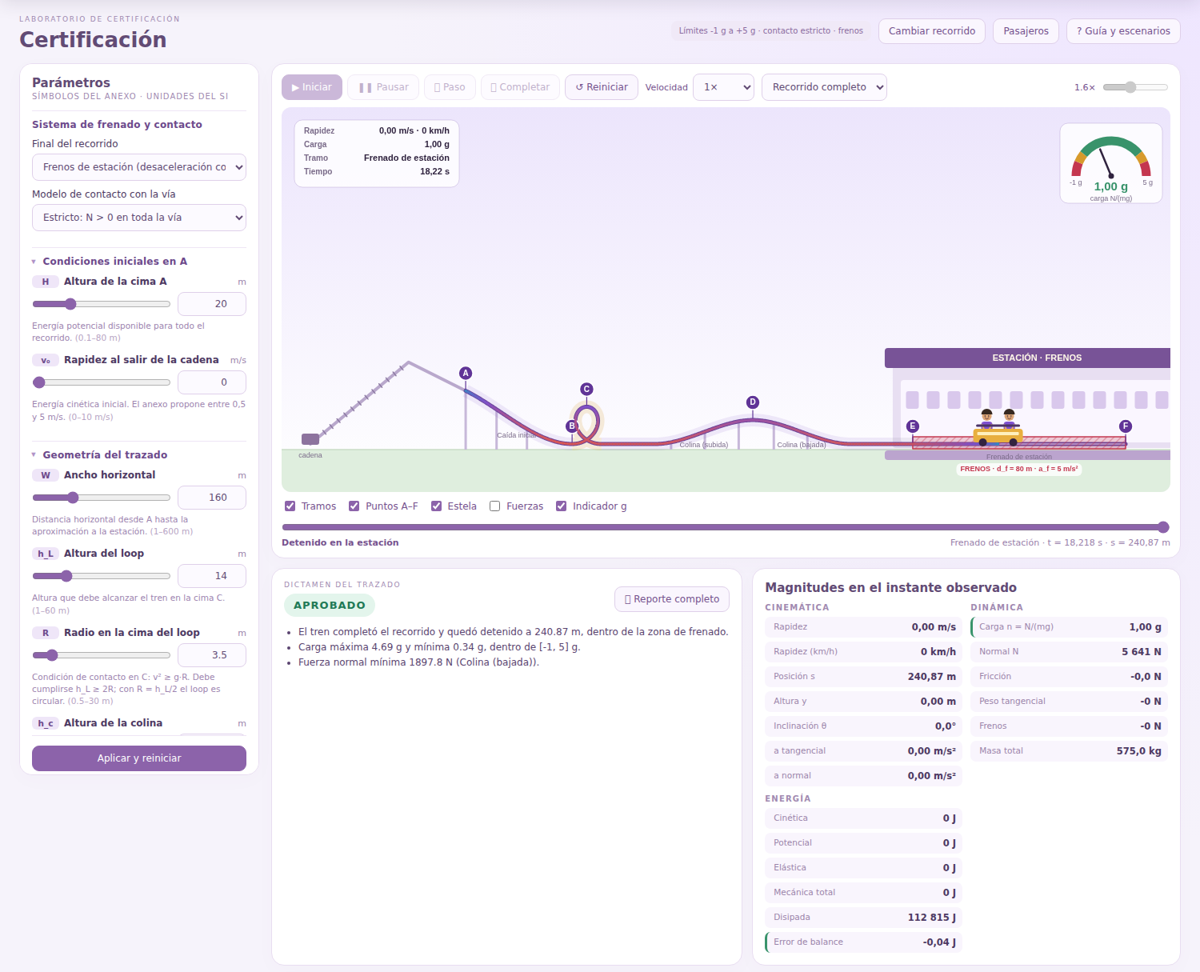
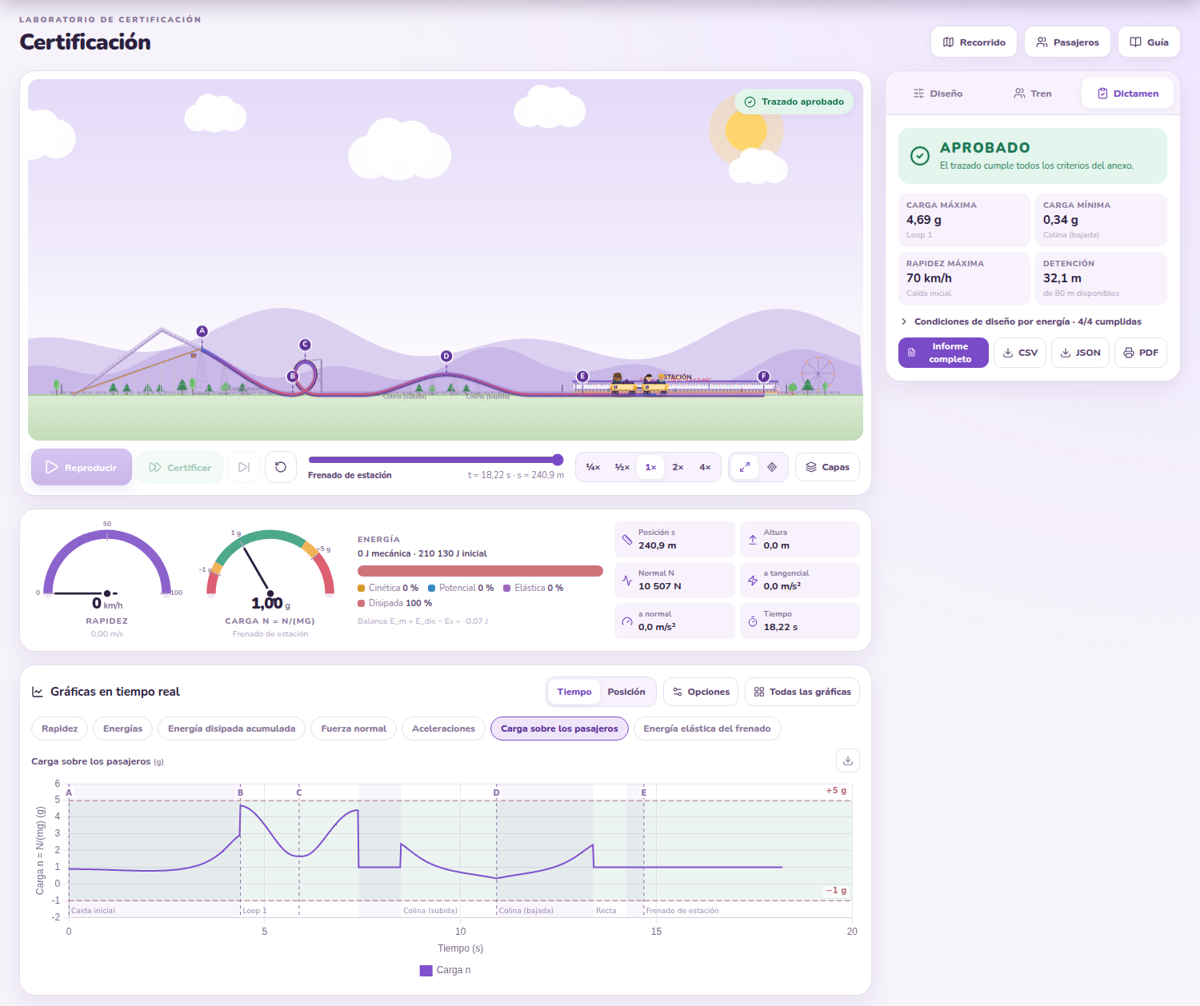
docs: interfaz rediseñada, pruebas e2e y capturas nuevas

diff --git a/README.md b/README.md
@@ -7,7 +7,15 @@ Proyecto de Simulación · Física I (FUN-18) · Universidad CENFOTEC · 2026-C3
 - **Aplicación desplegada:** https://coaster-certifier.vercel.app
 - **Repositorio público:** https://github.com/alestooo/Coaster-Certifier
 
-![Laboratorio de certificación: trazado del anexo aprobado, con puntos críticos A–F, dictamen, magnitudes y gráficas](docs/img/laboratorio.png)
+![Laboratorio de certificación: escenario a escala con el trazado del anexo aprobado, indicadores, dictamen y gráficas](docs/img/laboratorio.png)
+
+| Cámara de seguimiento a escala real | Editor de pista a escala |
+| --- | --- |
+| ![Tren bajando la caída inicial con la cadena de subida y los soportes](docs/img/seguimiento.png) | ![Editor con grilla en metros, nodos arrastrables y plantillas](docs/img/editor.png) |
+
+| Selección del recorrido | Tren y pasajeros |
+| --- | --- |
+| ![Seis trazados dibujados a escala a partir de su geometría](docs/img/recorridos.png) | ![Personalización de pasajeros con vista previa de la reacción a 5 g](docs/img/pasajeros.png) |
 
 ---
 
@@ -22,6 +30,7 @@ Proyecto de Simulación · Física I (FUN-18) · Universidad CENFOTEC · 2026-C3
 | *Headless* con otro escenario / paso / carpeta | `npm run headless -- --scenario valley --dt 0.005 --out salida` |
 | *Headless* con una configuración propia en JSON | `npm run headless -- --config mi-trazado.json` |
 | Listar los escenarios de referencia | `npm run headless -- --list` |
+| Pruebas de extremo a extremo en Chrome (Playwright, usa el Chrome instalado) | `npm run e2e` · `npm run e2e:headed` |
 | Servidor de desarrollo | `npm run dev` |
 | Compilar para producción | `npm run build` |
 | Verificación de tipos (Svelte + JSDoc) | `npm run check` |
@@ -208,7 +217,7 @@ Parámetros (`SimulationConfig`): `mass` (kg), `gravity` (m/s²), `initialHeight
 | Convergencia | subpaso 1 ms frente a 0,25 ms | 1e-5 relativo en v |
 | Tabla 5 del anexo | loop circular H = 30 m, v₀ = 2 m/s, h_L = 21,5 m ⇒ 6,6 g en la base | 0,1 g |
 
-Además: pureza (el estado de entrada congelado no se modifica), determinismo (dos ejecuciones idénticas), geometría (longitud `2π·R_ref`, altura `h_L`, radios en cima y base, continuidad de posición y ángulo en cada unión, `ρ_c = w²/(6h_c)`), validación de configuración (todos los rangos, enumerados, forma del loop, puntos personalizados), criterios (cada código de incumplimiento con su registro completo), dictamen, CSV, recomendaciones y los 12 escenarios de referencia con su dictamen esperado.
+Además, `npm run e2e` recorre la aplicación compilada en Chrome (menú → recorrido → tren → laboratorio → dictamen e informe, loop circular rechazado con alternativas, editor de pista personalizada y pantalla de pasajeros). Y en la librería: pureza (el estado de entrada congelado no se modifica), determinismo (dos ejecuciones idénticas), geometría (longitud `2π·R_ref`, altura `h_L`, radios en cima y base, continuidad de posición y ángulo en cada unión, `ρ_c = w²/(6h_c)`), validación de configuración (todos los rangos, enumerados, forma del loop, puntos personalizados), criterios (cada código de incumplimiento con su registro completo), dictamen, CSV, recomendaciones y los 12 escenarios de referencia con su dictamen esperado.
 
 Cobertura de `src/physics/` con `npm run test:coverage`: ≈ 87 % de líneas.
 
@@ -223,12 +232,13 @@ El código de salida es 0 si el trazado aprueba, 2 si se rechaza y 1 ante una co
 
 ## 7. Interfaz
 
-1. **Recorrido**: seis trazados (certificación del anexo con puntos A–F, loop, valle y colina, línea, plano inclinado, personalizado con hasta tres loops y nueve puntos).
-2. **Pasajeros**: hasta cuatro personas (dos por carrito), apariencia y masa individual.
-3. **Laboratorio**: parámetros con símbolo, unidad, rango y explicación; sistema de frenado y modelo de contacto; masas; **Iniciar / Pausar / Paso / Completar / Reiniciar**, velocidad de reproducción, cámara completa o de seguimiento, línea de tiempo para revisar cualquier instante; capas del dibujo (tramos, puntos críticos, estela de rapidez, fuerzas, indicador g).
-4. **Gráficas en tiempo real** (Chart.js, ejes con unidades): rapidez, energías, energía disipada, fuerza normal con N = 0, aceleraciones tangencial y normal, carga con banda [−1, +5] g y energía elástica; eje horizontal en tiempo o posición; marcadores de puntos críticos, tramos e incumplimientos; descarga PNG.
-5. **Dictamen** con incumplimientos (condición, instante, tramo, posición, valor, límite), condiciones de diseño y **tres alternativas verificadas** calculadas a partir de la física del fallo.
-6. **Reporte completo** imprimible (PDF): resultado, puntos críticos, extremos, frenado, tramos, condiciones de diseño y parámetros; exportación CSV y JSON.
+1. **Recorrido**: seis trazados dibujados **a escala real** a partir de su geometría (certificación del anexo con puntos A–F, loop, valle y colina, línea, plano inclinado, personalizado).
+2. **Tren**: hasta cuatro personas (dos por carrito) con nombre, tono de piel, seis peinados, tres prendas, seis accesorios, estado de ánimo (afecta sus reacciones a la carga) y masa individual; vista previa de la reacción a 0 g y a 5 g.
+3. **Editor de pista a escala**: la curva real del motor se redibuja al arrastrar cada nodo (grilla en metros, loops en lágrima con h_L y R, colinas con su altura, plantillas, controles de altura y ancho).
+4. **Laboratorio**: escenario ilustrado a escala (vía con rieles, soportes, estación, cadena de subida, árboles y parque) con un tren cuyos pasajeros reaccionan a la carga; una barra de transporte (**Reproducir / Certificar / paso / reiniciar**, velocidad, línea de tiempo, cámara completa o de seguimiento, capas); indicadores de rapidez y carga, reparto de energía y lecturas clave; panel lateral con pestañas **Diseño** (parámetros con símbolo, unidad, rango y ayuda), **Tren** (masas) y **Dictamen**.
+5. **Gráficas en tiempo real** (Chart.js, ejes con unidades): rapidez, energías, energía disipada, fuerza normal con N = 0, aceleraciones tangencial y normal, carga con banda [−1, +5] g y energía elástica; una gráfica o las siete a la vez; eje horizontal en tiempo o posición; marcadores de puntos críticos, tramos e incumplimientos; descarga PNG.
+6. **Dictamen** con incumplimientos (condición, instante, tramo, posición, valor, límite), condiciones de diseño y **tres alternativas verificadas** calculadas a partir de la física del fallo.
+7. **Informe completo** imprimible (PDF): resultado, puntos críticos, extremos, frenado, tramos, condiciones de diseño y parámetros; exportación CSV y JSON.
 
 ![Reporte de certificación con puntos críticos y extremos del recorrido](docs/img/reporte.png)
 

diff --git a/docs/ENTREGA-AVANCE-2.md b/docs/ENTREGA-AVANCE-2.md
@@ -35,7 +35,8 @@ Requiere Node.js ≥ 18.17. Sin motores físicos de terceros; la librería vive 
 - Criterios del dictamen del anexo: contacto N > 0 (estricto o con ruedas de seguridad), carga en [−1, +5] g, rapidez mínima en subida, compresión máxima, detención dentro de la zona de frenado; registro de cada incumplimiento con instante, tramo, posición, valor y límite; condiciones de diseño por conservación de energía.
 - Pruebas: 67 en vitest, con validación analítica (plano inclinado con y sin fricción, conservación de la energía, balance con fricción, frenado MRUA, resorte, cima y base del loop, cresta de la colina, independencia de la masa, convergencia y la Tabla 5 del anexo), más pureza, determinismo, geometría, configuración, criterios y 12 escenarios de referencia.
 - Script headless con CSV (25 columnas con unidad) y resumen JSON; dictamen impreso en consola.
-- Aplicación desplegada: seis trazados, pasajeros, parámetros ajustables con símbolo/unidad/rango, animación con cámara, línea de tiempo y velocidad, indicador g y fuerzas; siete gráficas en tiempo real con ejes y unidades, banda de carga permitida, marcadores A–F e incumplimientos; dictamen aprobado/rechazado, recomendaciones verificadas por simulación y reporte completo exportable (CSV, JSON, PDF).
+- Aplicación desplegada: seis trazados dibujados a escala, editor de pista a escala real, tren con pasajeros personalizables que reaccionan a la carga, escenario ilustrado a escala con cámara completa o de seguimiento, parámetros con símbolo/unidad/rango, barra de transporte con línea de tiempo y velocidad, indicadores de rapidez y carga; siete gráficas en tiempo real con ejes y unidades, banda de carga permitida, marcadores A–F e incumplimientos; dictamen aprobado/rechazado, recomendaciones verificadas por simulación e informe completo exportable (CSV, JSON, PDF).
+- Pruebas de extremo a extremo con Playwright sobre el build (`npm run e2e`).
 
 **Pendiente para la Entrega Final**
 
